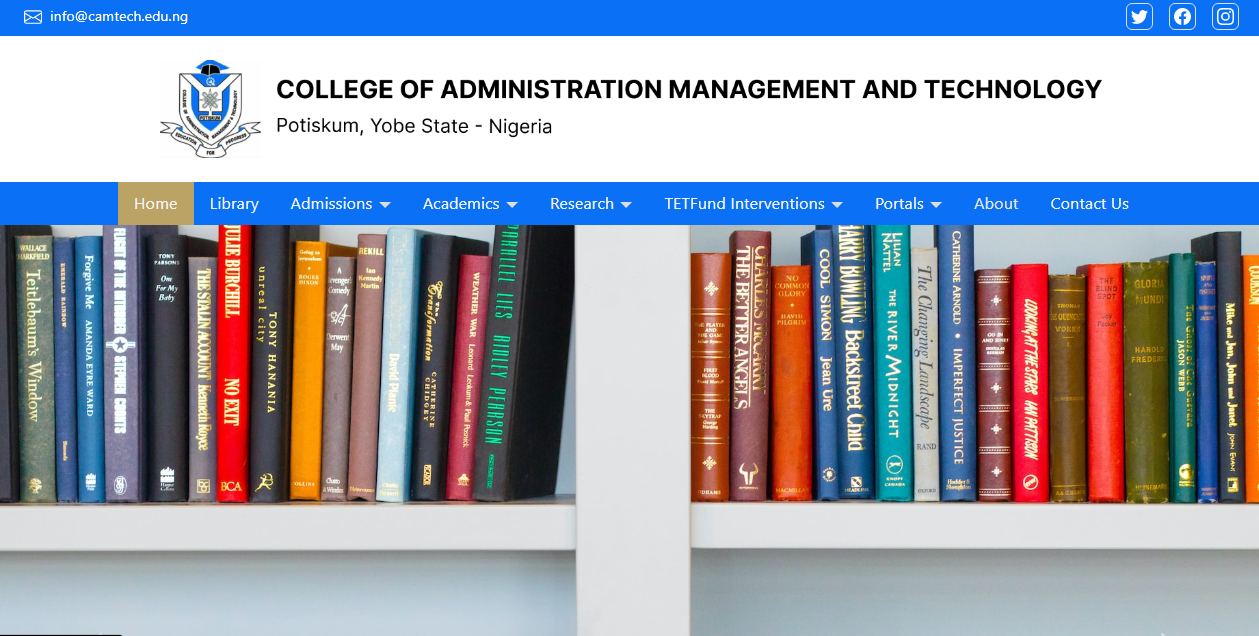
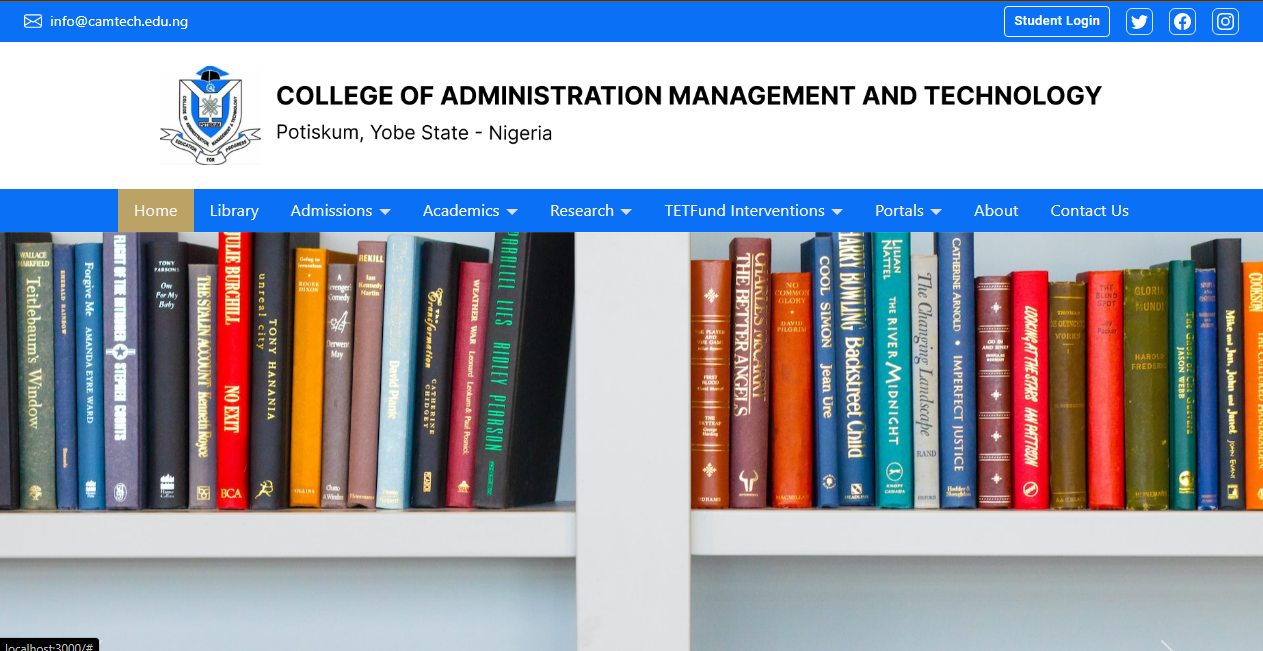
Added graph meta tags

diff --git a/src/app/AppFooter.jsx b/src/app/AppFooter.jsx
@@ -8,28 +8,28 @@ export default function AppFooter() {
             </div>
             <div id="app-footer-content-wrapper" className="d-flex justify-content-evenly">
                 <div id='app-footer-brand' className="me-5 d-flex">
-                    <img className="rounded border me-3" src="./assets/images/logo.jpeg" alt="camtech" height={80} width={80} />
+                    <img className="rounded border me-3" src="./assets/images/logo.jpeg" alt="camtech" height={60} width={60} />
                     <div>
                         <h3 className="text-white fs-4">CAMTECH, Potiskum</h3>
                         <p style={{color: '#f5f5f5'}} className="m-0">PMB 1046, Potiskum Yobe State</p>
                     </div>
                 </div>
                 <div id='footer-links-wrapper' className="me-5">
-                    <h4 className="fs-5">Useful Links</h4>
+                    <h4 className="fs-6">Quick Links</h4>
                     <ul>
-                        <li><a href="/admissions" className='lh-base'>Admissions</a></li>
+                        <li><a href="/admissions" className='lh-base'>Apply Now</a></li>
                         <li><a href="#news" className='lh-base'>News</a></li>
-                        <li><a href="/admissions" className='lh-base'>Portals</a></li>
-                        <li><a href="/library" className='lh-base'>Library</a></li>
+                        <li><a href="/student/login" className='lh-base'>Portal</a></li>
+                        <li><a href="/contact_us" className='lh-base'>Contact Us</a></li>
                         <li><a href="#news" className='lh-base'>Calanders</a></li>
                     </ul>
                 </div>
                 <div id='social-wrapper'>
-                    <h4 className="fs-5">Social Media</h4>
+                    <h4 className="fs-6">Social Media</h4>
                     <div className='d-flex align-items-center'>
-                        <a href="https://twitter.com/" className="me-3 rounded border border-secondary border-opacity-25 p-1"><Twitter size={30} /></a>
-                        <a href="https://web.facebook.com/groups/417586871675318" className="me-3 rounded border border-secondary border-opacity-25 p-1"><Facebook size={30} /></a>
-                        <a href="https://instagram.com/" className="me-3 rounded border border-secondary border-opacity-25 p-1"><Instagram size={30} /></a>
+                        <a href="https://twitter.com/" className="me-3 rounded border border-secondary border-opacity-25 p-1"><Twitter size={30} color='rgb(216, 216, 216)' /></a>
+                        <a href="https://web.facebook.com/groups/417586871675318" className="me-3 rounded border border-secondary border-opacity-25 p-1"><Facebook size={30} color='rgb(216, 216, 216)' /></a>
+                        <a href="https://instagram.com/" className="me-3 rounded border border-secondary border-opacity-25 p-1"><Instagram size={30} color='rgb(216, 216, 216)' /></a>
                     </div>
                 </div>
             </div>

diff --git a/src/app/components/Officers.jsx b/src/app/components/Officers.jsx
@@ -1,9 +1,11 @@
+import { Divider } from '@mui/material';
+
 export default function Officers() {
     return (
         <section className="mt-5 d-flex-column align-items-center">
-            <h2 className="text-center text-secondary fs-2">PRINCIPAL OFFICERS</h2>
+            <Divider id='p-officers-divider-label' className='w-50 m-auto'><h2 className="text-center fs-2 m-0 mx-3">PRINCIPAL OFFICERS</h2></Divider>
             <div className="officers-container mt-2 py-3 d-flex justify-content-center flex-wrap">
-                <div className="officer m-3">
+                <div className="officer m-4">
                     <img src="./assets/images/male-avatar.png" alt="" />
                     <div>
                         <div className="fw-semibold my-1 fs-5 text-center">John Doe</div>
@@ -11,7 +13,7 @@ export default function Officers() {
                     </div>
                 </div>
 
-                <div className="officer m-3">
+                <div className="officer m-4">
                     <img src="./assets/images/male-avatar.png" alt="" />
                     <div>
                         <div className="fw-semibold my-1 fs-5 text-center">John Doe</div>
@@ -19,7 +21,7 @@ export default function Officers() {
                     </div>
                 </div>
 
-                <div className="officer m-3">
+                <div className="officer m-4">
                     <img src="./assets/images/male-avatar.png" alt="" />
                     <div>
                         <div className="fw-semibold my-1 fs-5 text-center">John Doe</div>
@@ -27,7 +29,7 @@ export default function Officers() {
                     </div>
                 </div>
 
-                <div className="officer m-3">
+                <div className="officer m-4">
                     <img src="./assets/images/male-avatar.png" alt="" />
                     <div>
                         <div className="fw-semibold my-1 fs-5 text-center">John Doe</div>
@@ -35,7 +37,7 @@ export default function Officers() {
                     </div>
                 </div>
 
-                {/* <div className="officer m-3">
+                {/* <div className="officer m-4">
                     <img src="./assets/images/masud.jpg" alt="Masud Muhammad Shuaib" />
                     <div>
                         <div className="fw-semibold my-1 fs-5 text-center">Masud Muhammad Shuaib</div>

diff --git a/src/app/AppHeader.jsx b/src/app/AppHeader.jsx
@@ -12,7 +12,7 @@ export default function AppHeader() {
 
     return (
         <header className="app-header">
-            <TopBar queryRef="info@camtech.edu.ng" />
+            <TopBar homepage queryRef="info@camtech.edu.ng" />
             <div className="banner-wrapper" role='banner'>
                 <img src="./assets/images/banner.png" alt="" className='object-fit-cover' width='100%' height="100%" />
             </div>
@@ -50,6 +50,7 @@ export function TopBar(props) {
                 </a>
             </div>
             <div className="right-content d-flex align-items-center">
+                {props.homepage && <Button size="small" variant='outlined' className='text-capitalize me-3 border border-white'>Student Login</Button>}
                 <a href="https://twitter.com/" className='border p-1 rounded text-decoration-none me-3' target='_blank' rel='noopener noreferrer'><div className="wrapper d-flex align-items-center"><Twitter size={17} /></div></a>
                 <a href="https://web.facebook.com/groups/417586871675318" className='border p-1 rounded text-decoration-none me-3' target='_blank' rel='noopener noreferrer'><div className="wrapper d-flex align-items-center"><Facebook size={17} /></div></a>
                 <a href="https://instagram.com/" className='border p-1 rounded text-decoration-none' target='_blank' rel='noopener noreferrer'><div className="wrapper d-flex align-items-center"><Instagram size={17} /></div></a>

diff --git a/src/app/components/StudyWthUs.jsx b/src/app/components/StudyWthUs.jsx
@@ -1,4 +1,3 @@
-// import { Button } from 'react-bootstrap';
 import Button from '@mui/material/Button';
 import { useNavigate } from 'react-router-dom';
 
@@ -10,7 +9,7 @@ export default function StudyWithUs() {
         <section className="study-with-us-container">
             <div className="p-3 content-wrapper d-flex justify-content-between align-items-start">
                 <div className="left-content">
-                    <h2 className='fs-2 fw-bold lh-base my-3 text-primary'>STUDY WITH US</h2>
+                    <h2 className='fs-2 fw-bold lh-base my-3 text-light'>WANT TO STUDY WITH US ?</h2>
                     <p className='lh-lg fs-6 text-wrap text-light' style={{textAlign: 'justify'}}>We provide relevant and higher-quality education, leadership, and a meaningful life in order to advance understanding and quality of life.<br /> <br /> Prospective students are expected to meet the minimum requirements to be eligible for admission into <b className="text-light">College of Administration Management and Technology (CAMTECH) Potiskum</b>.</p>
                     <Button onClick={() => navigate('/admissions')} id="apply-btn-left" variant="contained" size="large" className='px-5 mt-3 mb-4'>APPLY NOW</Button>
                 </div>

diff --git a/src/styles/app/footer.css b/src/styles/app/footer.css
@@ -1,20 +1,24 @@
 .app-footer .location-wrapper {
     width: 100%;
     height: 300px;
-    background-color: #708090;
+    background-color: #181818;
 }
 
 #app-footer-content-wrapper {
     padding: 2rem 8rem;
-    background-color: rgb(149, 195, 233);
+    background-color: #181818;
 }
 
-.app-footer ul {
+.app-footer ul, .app-footer ul li {
     margin: 0 !important;
     padding: 0 !important;
 }
 
-#app-footer-content-wrapper h4 { color: #fff; margin-bottom: 1rem; }
+#app-footer-content-wrapper h4 { 
+    color: #fff;
+    margin-bottom: 1rem;
+    font-size: 1.1em !important;
+}
 
 #app-footer-content-wrapper a { color: #f5f5f5; }
 

diff --git a/src/app/components/News.jsx b/src/app/components/News.jsx
@@ -1,6 +1,9 @@
+// import Divider from '@mui/material/Divider';
+
 export default function News() {
     return (
         <section className="news-sec" style={{borderLeft: '9px solid #0dcaf0'}}>
+            {/* <Divider textAlign='center' className='mb-3 text-danger'><h3 className="text-info m-0 mx-2" id="news">News</h3></Divider> */}
             <h3 className="text-info" id="news">News</h3>
             <div className="news-container d-flex-column">
                 <div className="news-item mb-3 d-flex">

diff --git a/src/app/components/NavBar.jsx b/src/app/components/NavBar.jsx
@@ -76,6 +76,7 @@ export default function AppNavbar()
             </NavDropdown>
             <Nav.Link as={NavLink} to="/about" onClick={() => setExpanded(false)}>About</Nav.Link>
             <Nav.Link as={NavLink} to="/contact_us" onClick={() => setExpanded(false)}>Contact Us</Nav.Link>
+            <Nav.Link id='nav-student-btn-login' as={NavLink} to="/student/login" onClick={() => setExpanded(false)}>Student Login</Nav.Link>
           </Nav>
         </Navbar.Collapse>
       </Container>

diff --git a/src/app/components/WelcomeAddress.jsx b/src/app/components/WelcomeAddress.jsx
@@ -11,7 +11,7 @@ export default function WelcomeAddress(props) {
                         height={500}
                         width={400}
                         className="d-block"
-                        style={{borderRadius: '30px', border: '8px dashed red'}}
+                        style={{borderRadius: '30px', border: '6px dashed red'}}
                     />
                     :
                     <img

diff --git a/src/styles/navbar.css b/src/styles/navbar.css
@@ -40,6 +40,8 @@
     background-color: var(--color-secondary) !important;
 }
 
+#nav-student-btn-login { display: none; }
+
 @media screen and (max-width: 992px) {
     #brand { display: inline-block; }
 
@@ -51,5 +53,7 @@
     }
 
     .dropdown-submenu-container a.dropdown-submenu::after { transform: rotate(0deg) !important; }
+
+    #nav-student-btn-login { display: inline-block; }
 
 }

diff --git a/src/styles/app/main.css b/src/styles/app/main.css
@@ -132,6 +132,11 @@ main section h3 {
 
 .officer div span { font-size: 1.05rem !important; }
 
+#p-officers-divider-label::before, #p-officers-divider-label::after {
+    border-top-color: rgb(226, 188, 16);
+    border-width: 3px;
+}
+
 
 /* DEPARTMENTS PAGES STYLES */
 
